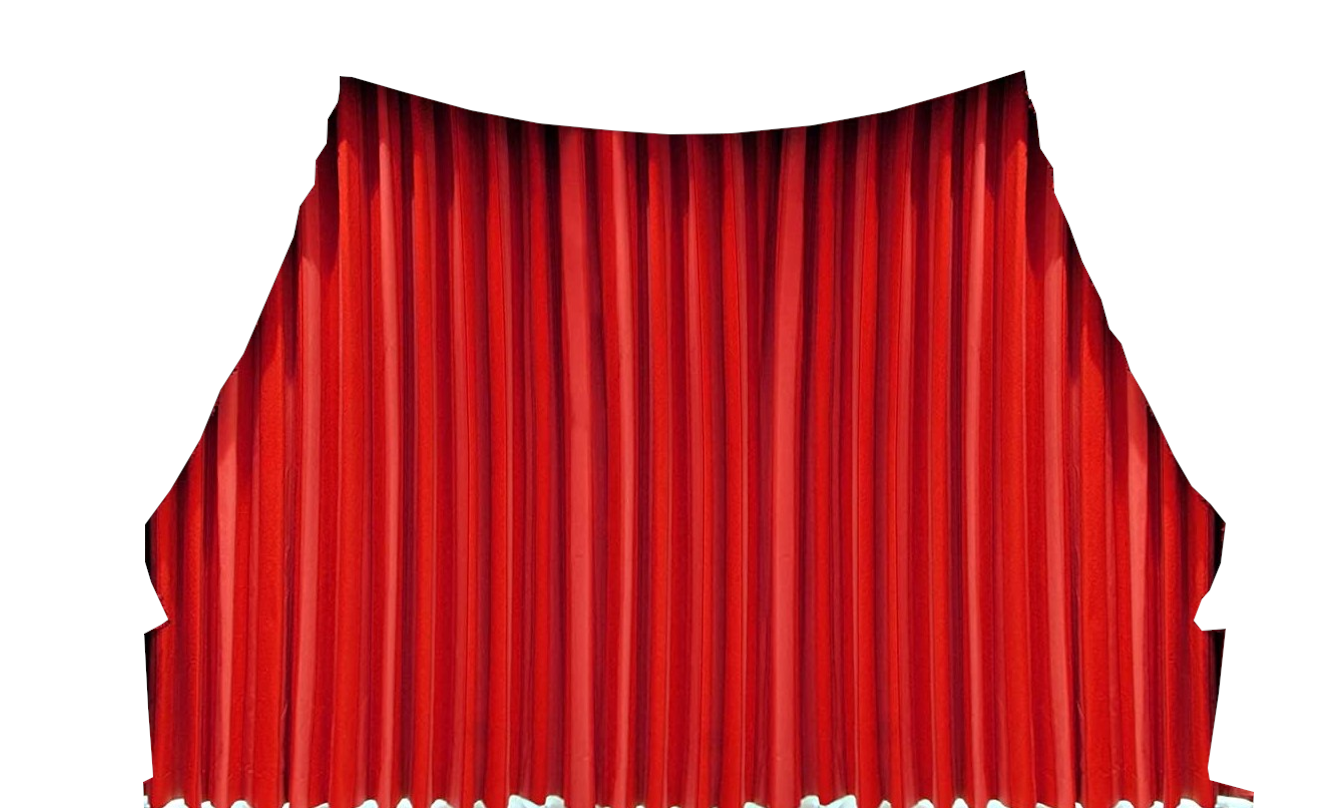
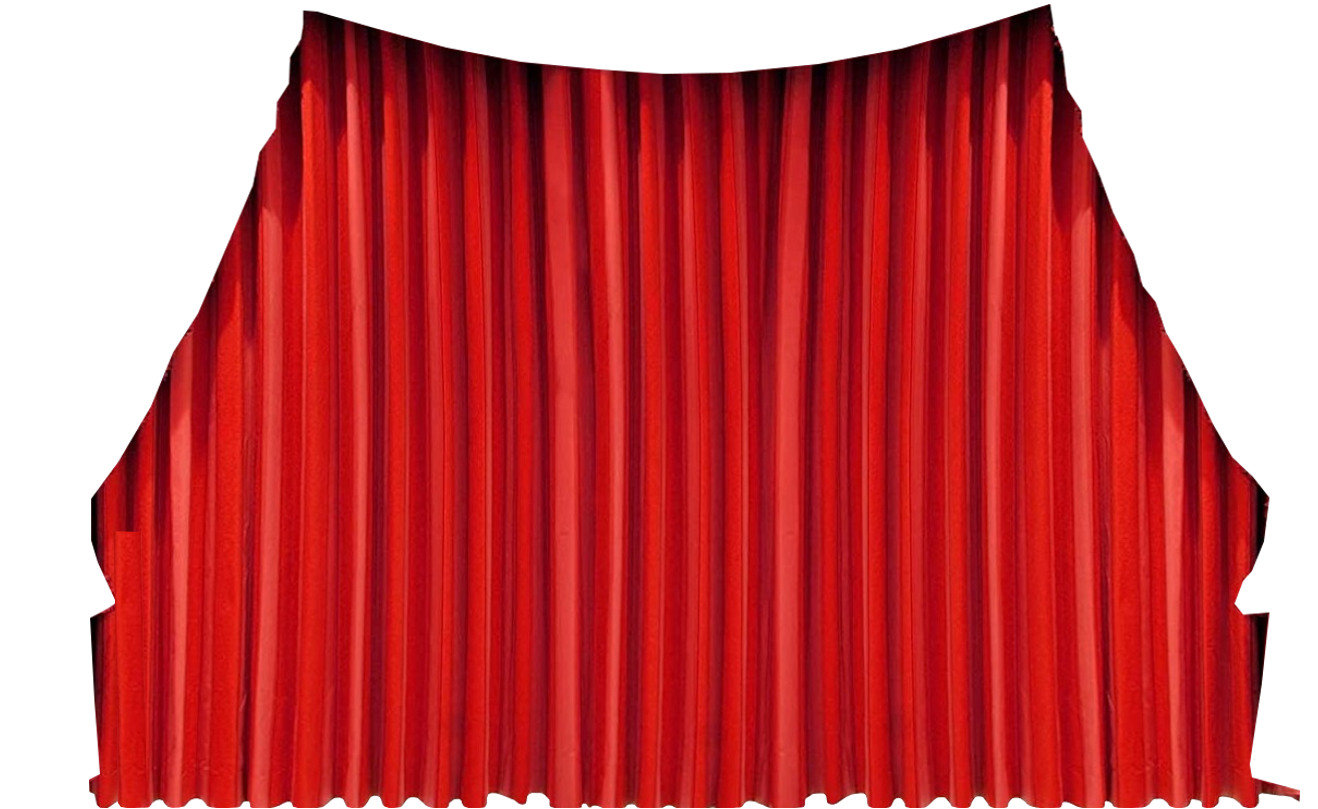
fungerende gardiner

diff --git a/index.html b/index.html
@@ -32,9 +32,8 @@
                 Info om gaver: bak hver luke befinner det seg en gave. Du får velge selv hvilken gave du vil beholde!
             </p>
 
-            <div class="gift-curtain">                             
-                <img src="images/curtainLeft.png" id="curtain-left" alt="pic is not found" width="100%">
-                <img src="images/curtainRight.png" id="curtain-right" alt="pic is not found" width="100%">                
+            <div class="gift-curtain">  
+                <img src="images/curtains.png" id="curtains" alt="pic is not found" width="100%">                
                 <img src="images/curtainsFrame.png" id="curtains-frame" alt="pic is not found" width="100%">                              
                 <img src="images/curtainsFrame.png" id="curtains-frame2" alt="pic is not found" width="100%"> 
             </div>

diff --git a/styles.css b/styles.css
@@ -24,20 +24,27 @@ h1{
 .gift-curtain{   
     position: relative; 
     border: 1px solid red;
-    
+    width: 60rem;
+    margin: auto;
+    background-image: url('images/hvalerHelene.jpg'); /*insert gave tema bilde her!!   */
+    background-size: cover;
 }
 
-#curtain-left{
+#curtains{
     position: absolute;
     z-index: 1;
     top: 0;
-
+}
+/* #curtain-left{
+    position: absolute;
+    z-index: 1;
+    top: 0;
 }
 #curtain-right{
     position: absolute;
     z-index: 2;  
     top: 0;  
-}
+} */
 #curtains-frame{
     position: absolute;
     z-index: 3;    

diff --git a/script.js b/script.js
@@ -1,5 +1,4 @@
 $('.gift-curtain').on("click", function(){
-    // $(this).children('#curtain-left').fadeOut();
-    $(this).children('#curtain-left').slideUp(2000);
-    // $(this).children('#curtain-left').animate({left: '0px'}, 'slow');
-  });
+$(this).children('#curtains').slideUp(2000);
+});
+
